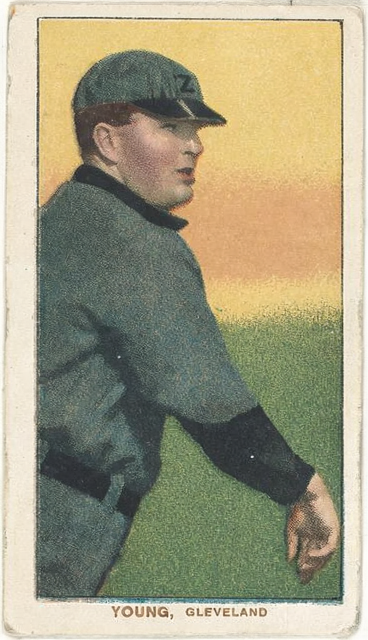
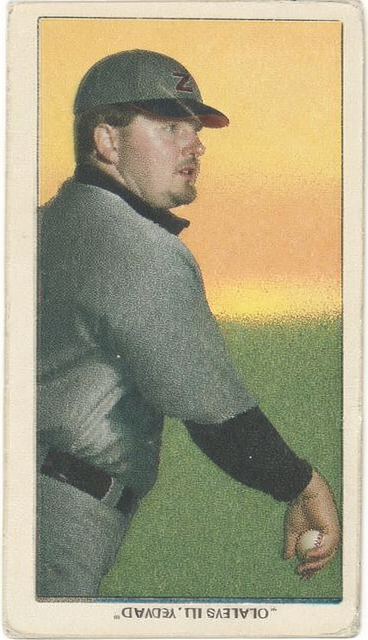
new change series baseball

diff --git a/docs/examples.md b/docs/examples.md
@@ -121,17 +121,21 @@ What to notice:
 
 ## Starting from a picture
 
-A 1909–1911 baseball card of Cy Young as the starting picture, at **Change** 0.25, 0.50, 0.75, 0.85, 0.90, 0.95,
-and 0.98. 368 × 640, 100 steps.
+A 1909–1911 baseball card of Cy Young as the starting picture, at **Change** 0.25, 0.50, 0.75, 0.80, 0.85, 0.90,
+and 0.95. 368 × 640 (the card's own size), 50 steps, Adherence 6, seed 3078153374. Raising the size at the same
+time, to 1 megapixel say, would have upscaled the card as well.
 
-> modern color photograph of a baseball pitcher from 1910 shown just after releasing a ball in the golden hour on a
-> field of green that goes to the horizon about midway up the background. He is wearing a white pinstrpied shirt and
-> pants, black belt, and a neon blue shirt under the grey shirt with a blue collar sticking out and blue sleeves
-> extending past the short grey sleeves, and a hat that is neon blue with a "Z" on it
+> modern color photographic baseball card of a pitcher shown from the side holding a baseball in the golden hour on
+> a field of green that goes to the horizon about midway up the background with a beautiful golden-orange sunset. He
+> is wearing a crisp white jersey and pants, black belt, and a bright red shirt under the white shirt with a red
+> collar sticking out and red sleeves extending past the short white sleeves, and a bright red hat with a white "Z"
+> on it, at the bottom of the card a sans-serif caption: "OLD, ZANESVILLE"
+
+Negative prompt: *cartoon, anime, drawing*
 
 <table class="examples">
   <tr><td><a href="assets/examples/from-image/cy-young-000.jpg"><img src="assets/examples/from-image/cy-young-000.jpg" alt="the original card" loading="lazy"></a><br>the original card</td><td><a href="assets/examples/from-image/cy-young-025.webp"><img src="assets/examples/from-image/cy-young-025.webp" alt="Change 0.25" loading="lazy"></a><br>Change 0.25</td><td><a href="assets/examples/from-image/cy-young-050.webp"><img src="assets/examples/from-image/cy-young-050.webp" alt="0.50" loading="lazy"></a><br>0.50</td><td><a href="assets/examples/from-image/cy-young-075.webp"><img src="assets/examples/from-image/cy-young-075.webp" alt="0.75" loading="lazy"></a><br>0.75</td></tr>
-  <tr><td><a href="assets/examples/from-image/cy-young-085.webp"><img src="assets/examples/from-image/cy-young-085.webp" alt="0.85" loading="lazy"></a><br>0.85</td><td><a href="assets/examples/from-image/cy-young-090.webp"><img src="assets/examples/from-image/cy-young-090.webp" alt="0.90" loading="lazy"></a><br>0.90</td><td><a href="assets/examples/from-image/cy-young-095.webp"><img src="assets/examples/from-image/cy-young-095.webp" alt="0.95" loading="lazy"></a><br>0.95</td><td><a href="assets/examples/from-image/cy-young-098.webp"><img src="assets/examples/from-image/cy-young-098.webp" alt="0.98" loading="lazy"></a><br>0.98</td></tr>
+  <tr><td><a href="assets/examples/from-image/cy-young-080.webp"><img src="assets/examples/from-image/cy-young-080.webp" alt="0.80" loading="lazy"></a><br>0.80</td><td><a href="assets/examples/from-image/cy-young-085.webp"><img src="assets/examples/from-image/cy-young-085.webp" alt="0.85" loading="lazy"></a><br>0.85</td><td><a href="assets/examples/from-image/cy-young-090.webp"><img src="assets/examples/from-image/cy-young-090.webp" alt="0.90" loading="lazy"></a><br>0.90</td><td><a href="assets/examples/from-image/cy-young-095.webp"><img src="assets/examples/from-image/cy-young-095.webp" alt="0.95" loading="lazy"></a><br>0.95</td></tr>
 </table>
 
 *Card: [Cy Young, Cleveland Naps, baseball card portrait], card set White Borders (T206), issued by the American
@@ -141,11 +145,31 @@ no known restrictions on publication.
 
 What to notice:
 
-- **Up to 0.5, the card barely changes,** however different the prompt.
-- **From 0.75 to 0.90, the prompt takes over the details** (the pinstripes, the blue sleeves and collar, the blue
-  cap with its Z) while the card's pose, framing, and border stay.
-- **At 0.95, it's a new person on a similar card,** and **at 0.98, a new picture** that keeps only the colors and
-  the general idea. Here MOSS-Image also shows its limits: the pitcher's cross-body throw isn't a real pitching
-  motion.
-- **The lettering on the card becomes invented text** once Change is high enough to redraw it. Words come out
-  right only when the prompt gives them in quotation marks.
+- **At 0.25, the card is retouched, not changed:** the same colors and caption, with only the "C" on the cap
+  turned into the prompt's "Z".
+- **At 0.50, details are redrawn** (the face, a ball in the hand) but the card's colors stay, and the caption
+  starts to come apart into invented lettering.
+- **From 0.75 to 0.85, the prompt takes over the colors and clothes** (the white jersey, the red collar, sleeves,
+  and cap, the sunset) and the caption reads as quoted, while the pose, framing, and border stay. By 0.85 it is a
+  different man.
+- **At 0.90, a new picture on a similar card,** with the pitcher turned toward the camera; **at 0.95, a modern
+  card** that keeps only the subject, the colors, and the general idea.
+- **Words come out right only when the prompt gives them in quotation marks,** and once Change is high enough to
+  redraw them.
+
+### Same Change, other seeds
+
+The same settings at **Change** 0.85 with eight random seeds.
+
+<table class="examples">
+  <tr><td><a href="assets/examples/from-image/cy-young-085-seed-1.webp"><img src="assets/examples/from-image/cy-young-085-seed-1.webp" alt="seed 1" loading="lazy"></a><br>seed 1</td><td><a href="assets/examples/from-image/cy-young-085-seed-2.webp"><img src="assets/examples/from-image/cy-young-085-seed-2.webp" alt="seed 2" loading="lazy"></a><br>seed 2</td><td><a href="assets/examples/from-image/cy-young-085-seed-3.webp"><img src="assets/examples/from-image/cy-young-085-seed-3.webp" alt="seed 3" loading="lazy"></a><br>seed 3</td><td><a href="assets/examples/from-image/cy-young-085-seed-4.webp"><img src="assets/examples/from-image/cy-young-085-seed-4.webp" alt="seed 4" loading="lazy"></a><br>seed 4</td></tr>
+  <tr><td><a href="assets/examples/from-image/cy-young-085-seed-5.webp"><img src="assets/examples/from-image/cy-young-085-seed-5.webp" alt="seed 5" loading="lazy"></a><br>seed 5</td><td><a href="assets/examples/from-image/cy-young-085-seed-6.webp"><img src="assets/examples/from-image/cy-young-085-seed-6.webp" alt="seed 6" loading="lazy"></a><br>seed 6</td><td><a href="assets/examples/from-image/cy-young-085-seed-7.webp"><img src="assets/examples/from-image/cy-young-085-seed-7.webp" alt="seed 7" loading="lazy"></a><br>seed 7</td><td><a href="assets/examples/from-image/cy-young-085-seed-8.webp"><img src="assets/examples/from-image/cy-young-085-seed-8.webp" alt="seed 8" loading="lazy"></a><br>seed 8</td></tr>
+</table>
+
+What to notice:
+
+- **The card holds steady:** every seed keeps the side view, the ball in the throwing hand, the border, and the
+  caption, and all eight spell it right.
+- **What the card left open changes:** the face, hair, and beard, where the sun sits, how far the red sleeves
+  reach. One seed brings the ball and a glove up in front of the body.
+- **A prompt can be followed too literally:** one seed prints the caption's quotation marks.

diff --git a/docs/from-a-picture.md b/docs/from-a-picture.md
@@ -27,9 +27,10 @@ Under the picture: its original size, and these buttons.
 
 | Change | result |
 |---|---|
-| 0.01–0.05 | almost identical: cleaner, sharper, slightly retouched |
-| 0.05–0.2 | same picture, restyled or with details redone |
-| 0.25–0.5 | same composition and colors, new content |
+| 0.01–0.2 | almost identical: cleaner, sharper, slightly retouched |
+| 0.25–0.7 | same picture with details redone; colors and layout kept |
+| 0.75–0.85 | same pose and framing; the prompt sets colors, clothes, light, and lettering |
+| 0.9–0.95 | a new picture with a similar subject and layout |
 | 1.0 | only the prompt matters; your picture is ignored, except outside a selected area |
 
 ## Prompting
@@ -55,7 +56,7 @@ Then write a prompt for the whole picture as it should end up, set **Change**, a
 selected area changes; the rest stays exactly as it was.
 
 - Replace something: **Change 1.0**, and a prompt describing what should be there
-- Fix or restyle something: **Change 0.2–0.5**
+- Fix or restyle something: **Change 0.5–0.8**
 
 ![The main window after the change: the cropped picture with the card now reading VANILLA at the top of the history, the original three-bowl picture below it, and on the left the starting picture with its painted card and Change set to 0.90](assets/screenshots/inpainted.webp)
 

diff --git a/CHANGELOG.md b/CHANGELOG.md
@@ -8,6 +8,7 @@
 - User's Guide: the download button first; the sidebar grouped into Getting started, Making images, Reference,
   and About; a page on describing images; menus merged into Controls; timings for an M5 Max; the install page
   for the disk image only; and the developer material moved to CONTRIBUTING.md
+- New baseball-card examples across the Change range and across seeds, and the Change guide redrawn from them
 
 ## 1.0.0rc2 (2026-11-06)
 
